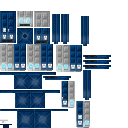
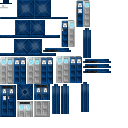
Police box: use the texture embedded in Aaron's model (the separate copy was upside down)
That fixes the see-through holes and the missing lantern. The open door shells
no longer have a floor and roof between the two halves, which showed as a seam
across the doorway.

Claude-Session: https://claude.ai/code/session_011VYsPYoCVtNcoavUYpau2n

diff --git a/tardis/tools/door_models.py b/tardis/tools/door_models.py
@@ -22,9 +22,14 @@ def open_model(front, side, up, down, half, front_dir):
     """A hollow shell open at front_dir ('north' or 'south'), frame on the open side."""
     back = "south" if front_dir == "north" else "north"
     z0, z1 = (0, 1) if front_dir == "north" else (15, 16)
-    shell = {"from": [0, 0, 0], "to": [16, 16, 16], "faces": {
-        back: face("side", back), "east": face("side", "east"), "west": face("side", "west"),
-        "up": face("up", "up"), "down": face("down", "down")}}
+    faces = {back: face("side", back), "east": face("side", "east"), "west": face("side", "west")}
+    # only the outer ends get a roof and a floor: a lower half's top and an upper half's bottom would show as a
+    # seam across the doorway, between the two blocks
+    if half == "upper":
+        faces["up"] = face("up", "up")
+    else:
+        faces["down"] = face("down", "down")
+    shell = {"from": [0, 0, 0], "to": [16, 16, 16], "faces": faces}
     els = [shell,
            {"from": [0, 0, z0], "to": [1, 16, z1], "faces": {front_dir: face("front", front_dir),
                                                              "east": face("front")}},

diff --git a/tardis/tools/police_box.py b/tardis/tools/police_box.py
@@ -1,6 +1,7 @@
 """Turns Aaron's police box (a Blockbench glTF, tools/police_box/model.gltf) into what the exterior renderer draws.
 
-Writes assets/tardis_rb/police_box/model.json: triangles (x y z u v, normal) for the body and for each door, with the
+paint.png is the texture embedded in the glTF (the zip's separate copy was flipped upside down; glow.png is the
+zip's emissive layer flipped to match). Writes assets/tardis_rb/police_box/model.json: triangles (x y z u v, normal) for the body and for each door, with the
 door's hinge, plus the door swing and from which look the windows glow. Writes the textures
 textures/entity/police_box/look_0..3.png: look 3 is the original paint; looks 0-2 are the same box with the paint
 chipped and scratched off so bare wood shows (most on the crashed wreck, least when nearly repaired), and glow.png
